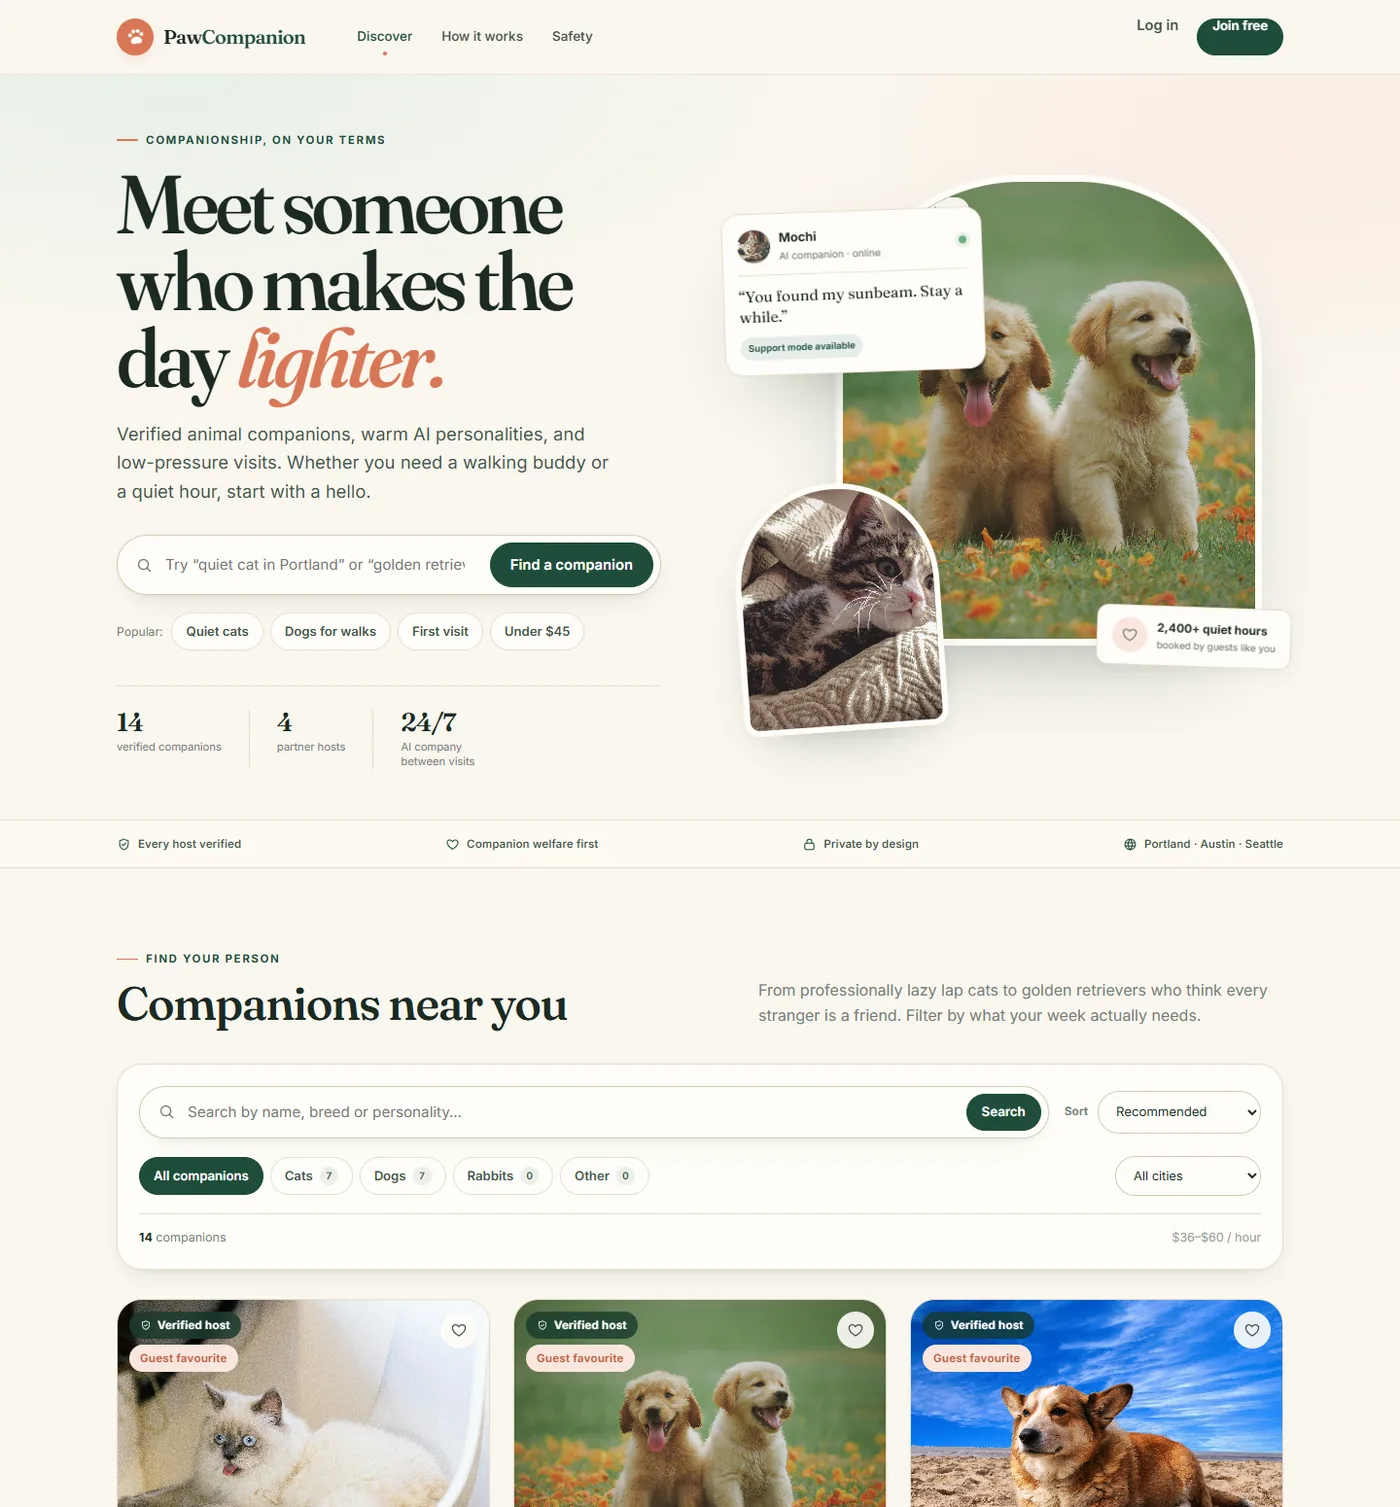
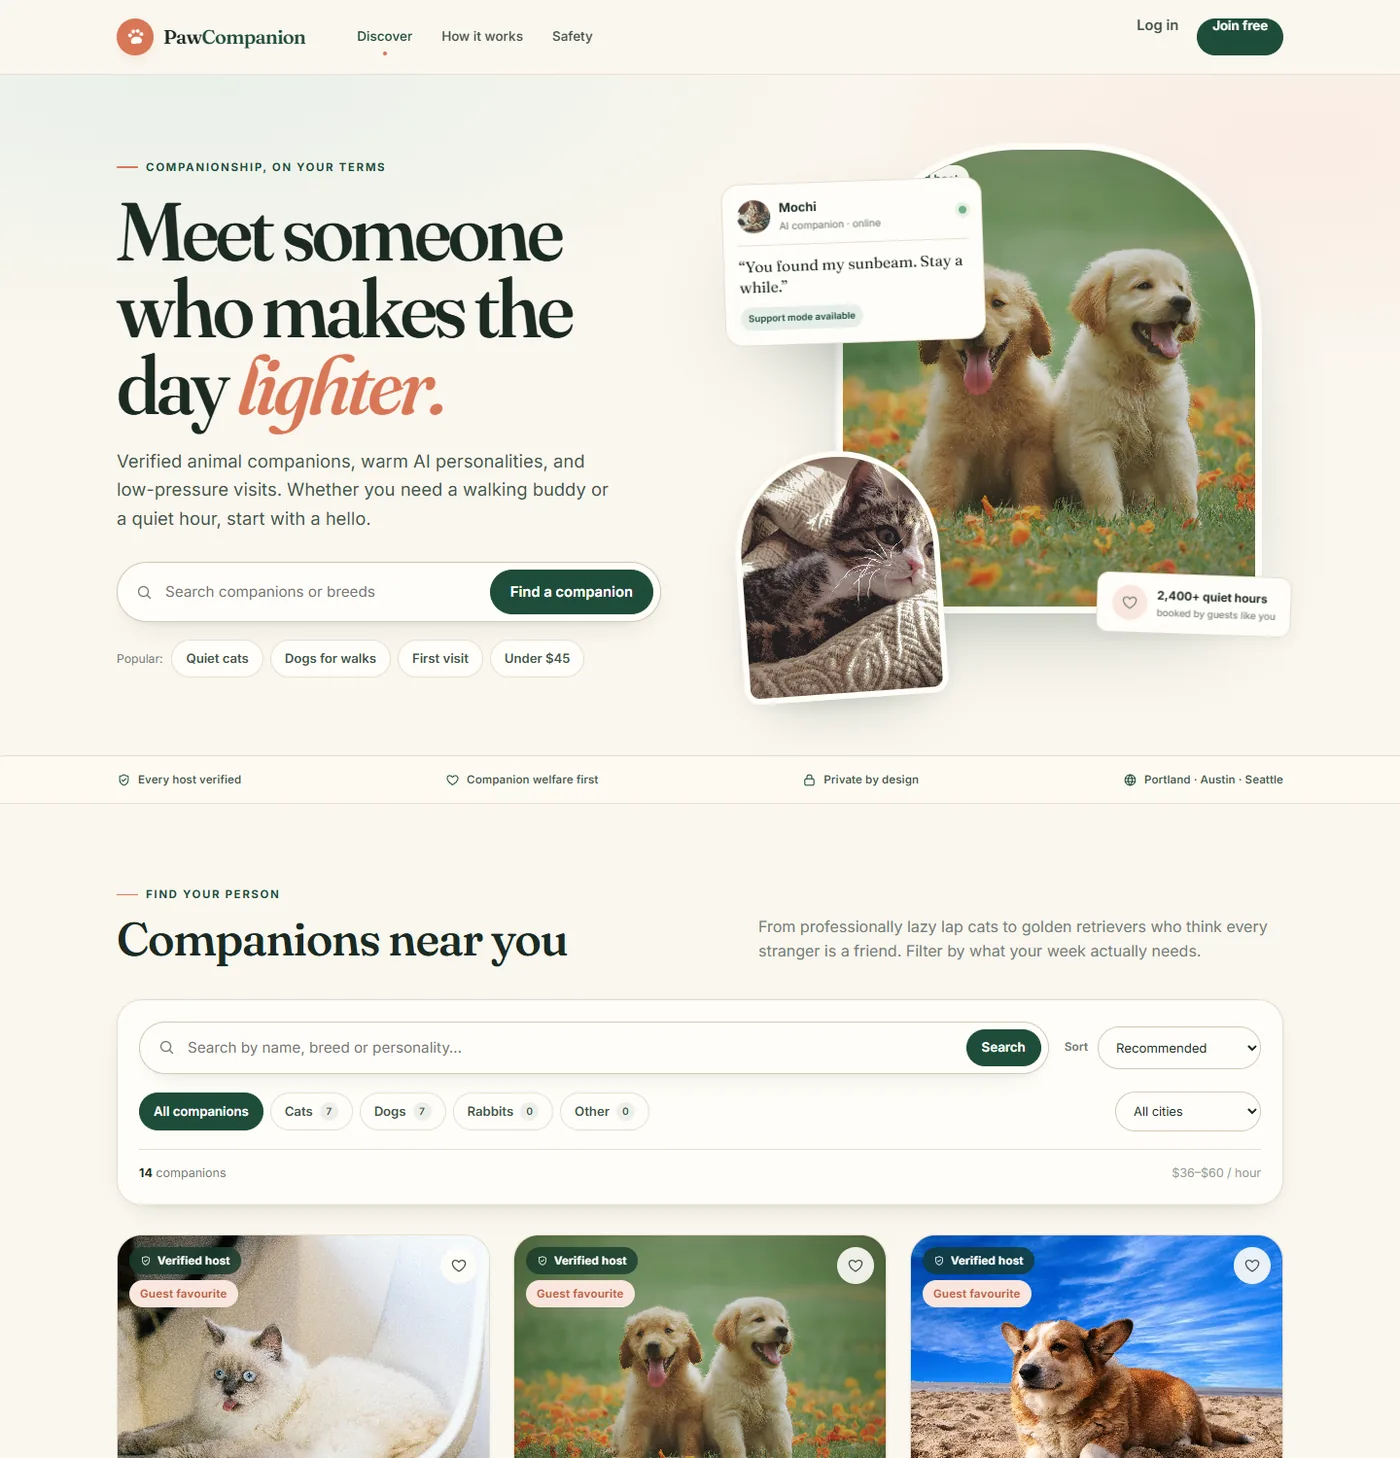
fix: tighten guest home mobile layout and CTA

diff --git a/frontend/src/pages/HomePage.module.css b/frontend/src/pages/HomePage.module.css
@@ -21,6 +21,7 @@
   display: flex;
   flex-direction: column;
   align-items: flex-start;
+  min-width: 0;
 }
 
 .heroTitle {
@@ -45,6 +46,7 @@
 }
 
 .heroCopy form {
+  width: 100%;
   max-width: 560px;
   margin-top: 30px;
 }
@@ -73,50 +75,10 @@
   font-size: 0.76rem;
 }
 
-.heroProof {
-  display: flex;
-  align-items: stretch;
-  gap: 0;
-  margin-top: 36px;
-  padding-top: 24px;
-  border-top: 1px solid var(--line);
-  width: 100%;
-  max-width: 560px;
-}
-
-.heroProof > div {
-  display: flex;
-  flex-direction: column;
-  gap: 4px;
-  padding-right: 28px;
-  margin-right: 28px;
-  border-right: 1px solid var(--line);
-}
-
-.heroProof > div:last-child {
-  border-right: 0;
-  padding-right: 0;
-  margin-right: 0;
-}
-
-.heroProof strong {
-  font-family: var(--font-display);
-  font-size: 1.65rem;
-  font-weight: 600;
-  letter-spacing: -0.03em;
-  line-height: 1;
-}
-
-.heroProof span {
-  font-size: 0.7rem;
-  color: var(--muted);
-  line-height: 1.35;
-  max-width: 110px;
-}
-
 .heroVisual {
   position: relative;
   height: 590px;
+  min-width: 0;
 }
 
 .photoMain {
@@ -695,16 +657,6 @@
 @media (max-width: 680px) {
   .hero {
     padding-top: 36px;
-  }
-  .heroProof {
-    flex-wrap: wrap;
-    gap: 18px;
-  }
-  .heroProof > div {
-    padding-right: 0;
-    margin-right: 0;
-    border-right: 0;
-    flex: 1 1 100px;
   }
   .heroVisual {
     height: 430px;

diff --git a/frontend/src/pages/HomePage.jsx b/frontend/src/pages/HomePage.jsx
@@ -126,7 +126,7 @@ export default function HomePage() {
                 type="search"
                 value={heroQuery}
                 onChange={(event) => setHeroQuery(event.target.value)}
-                placeholder="Try “quiet cat in Portland” or “golden retriever”"
+                placeholder="Search companions or breeds"
                 aria-label="Search companions"
               />
               <button type="submit" className="btn">
@@ -141,21 +141,6 @@ export default function HomePage() {
                   {link.label}
                 </button>
               ))}
-            </div>
-
-            <div className={classes.heroProof}>
-              <div>
-                <strong>{facets?.total ?? '14'}</strong>
-                <span>verified companions</span>
-              </div>
-              <div>
-                <strong>{facets?.hosts ?? '4'}</strong>
-                <span>partner hosts</span>
-              </div>
-              <div>
-                <strong>24/7</strong>
-                <span>AI company between visits</span>
-              </div>
             </div>
           </div>
 

diff --git a/frontend/src/components/Layout/Header.module.css b/frontend/src/components/Layout/Header.module.css
@@ -159,6 +159,10 @@
   display: none;
 }
 
+.mobileJoin {
+  display: none;
+}
+
 .mobilePanel {
   position: fixed;
   inset: var(--header-h) 0 0;
@@ -214,6 +218,15 @@
   }
   .userButton {
     padding: 2px;
+  }
+}
+
+@media (max-width: 760px) {
+  .mobileJoin {
+    display: inline-flex;
+    min-height: 34px;
+    padding: 0 12px;
+    font-size: 0.76rem;
   }
 }
 

diff --git a/frontend/src/components/Layout/Header.jsx b/frontend/src/components/Layout/Header.jsx
@@ -159,6 +159,9 @@ export default function Header() {
               <Link to="/register" className="btn btn-sm hide-mobile">
                 Join free
               </Link>
+              <Link to="/register" className={`btn btn-sm ${classes.mobileJoin}`}>
+                Join
+              </Link>
             </>
           )}
 
